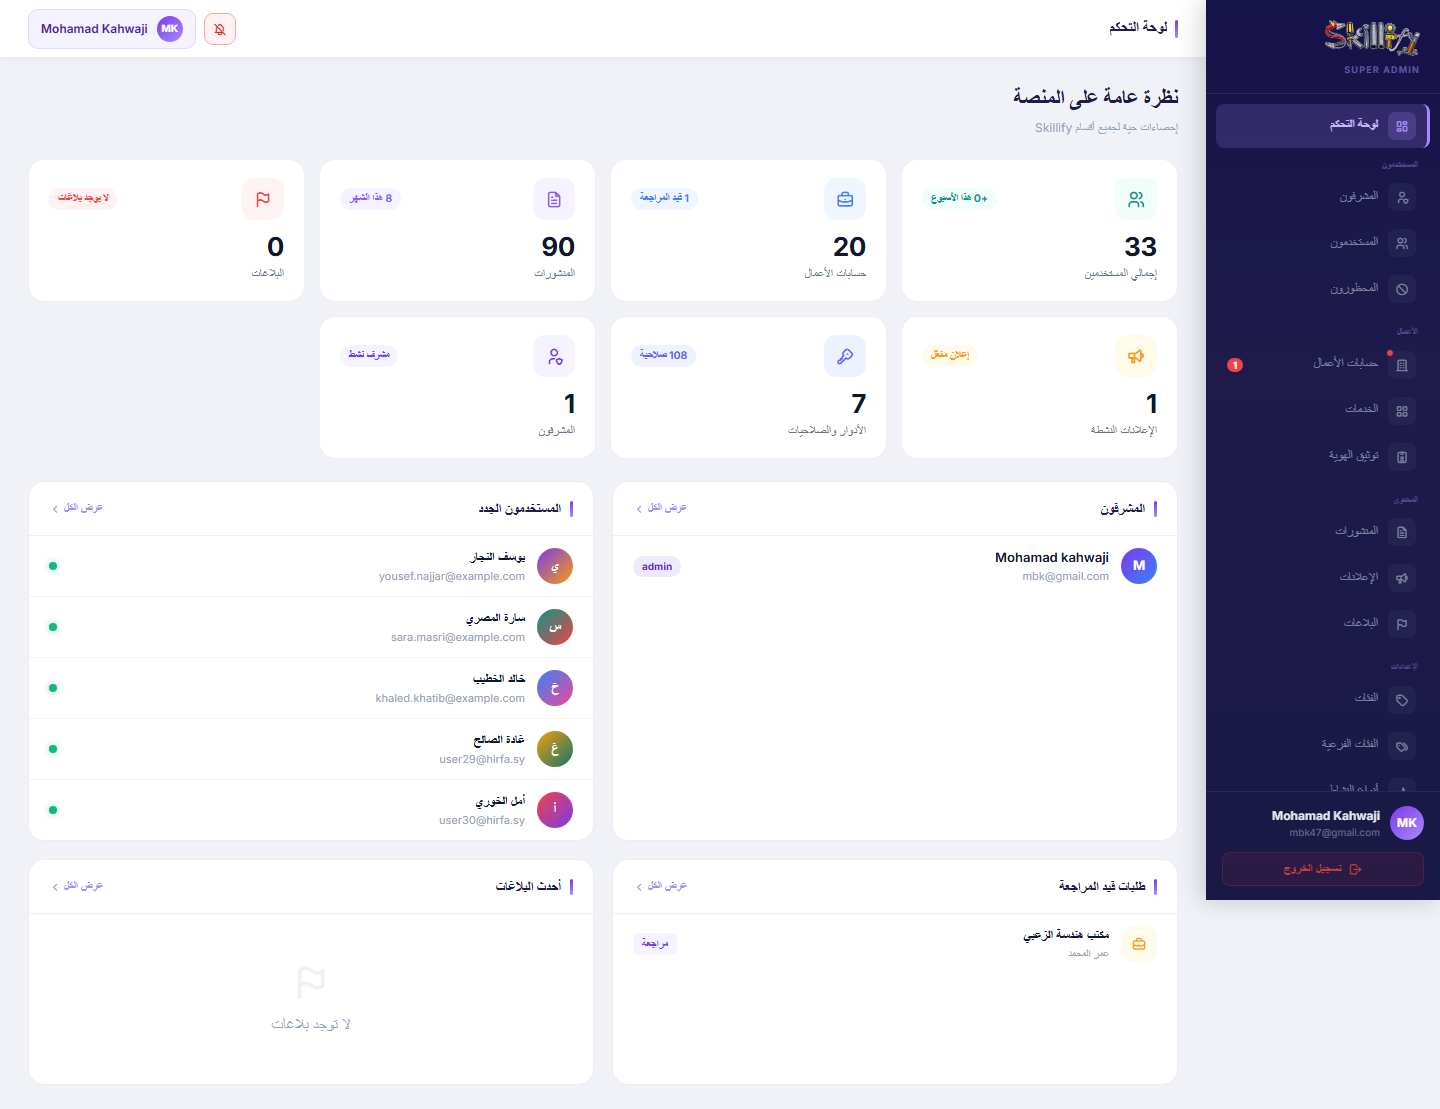
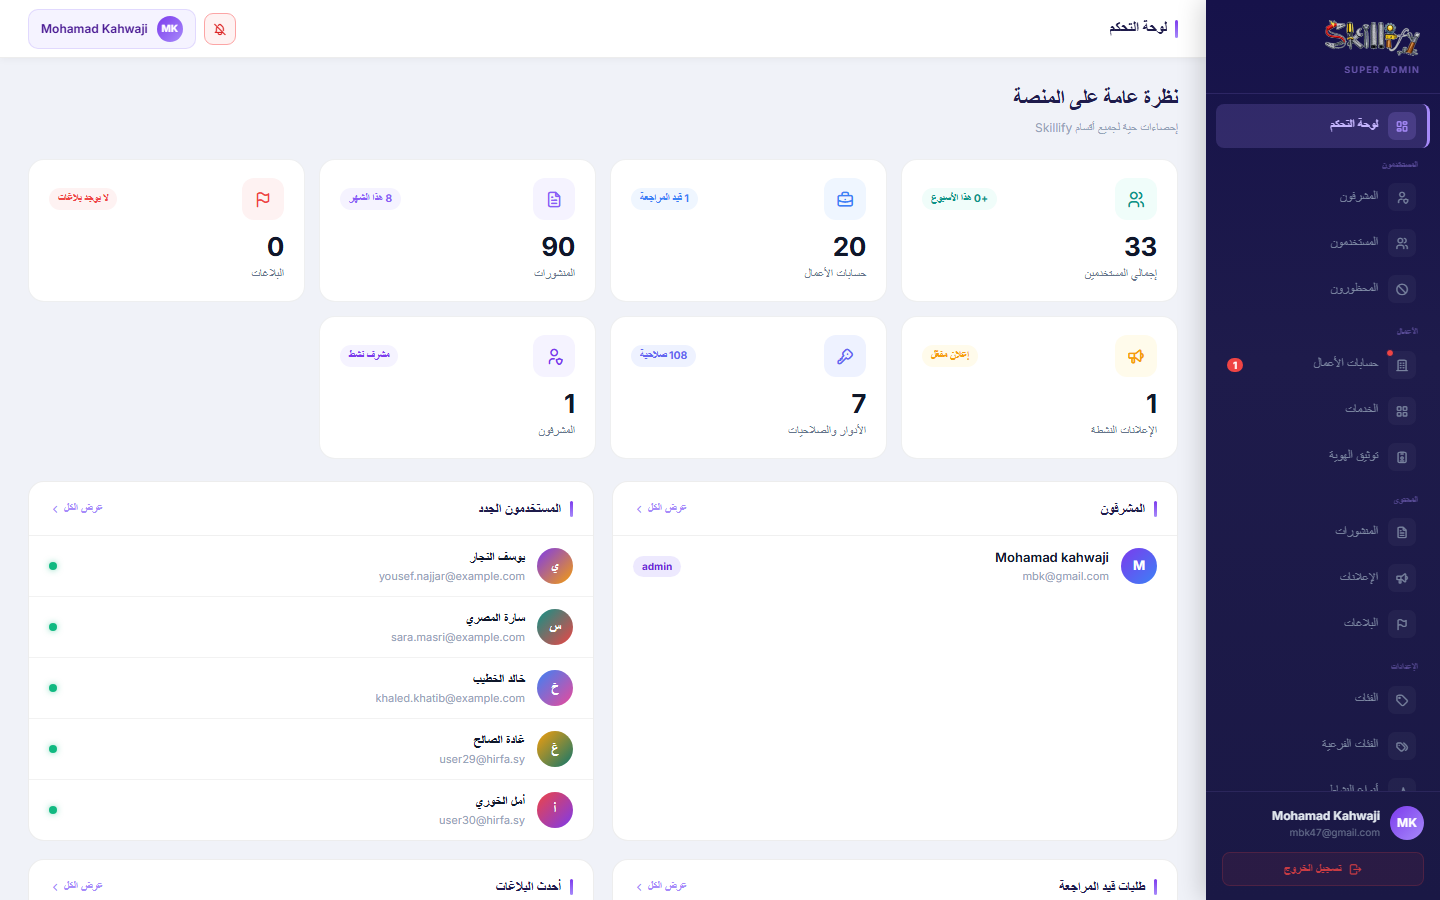
Expand screenshot gallery with more realistic, focused examples
Switch to viewport-only captures (no more full-page scrolling
screenshots of entire lists) and add register, forgot-password/OTP,
explore, admin management, roles & permissions, and identity
verification pages to better showcase the system's features.

diff --git a/README.md b/README.md
@@ -50,6 +50,10 @@ Scope note: Skillify is a web application. Its interface is rendered server-side
 <td width="50%"><img src="docs/screenshots/landing-page.png" alt="Landing page" /><p align="center"><sub>Landing page</sub></p></td>
 <td width="50%"><img src="docs/screenshots/login-page.png" alt="Login page" /><p align="center"><sub>Login page</sub></p></td>
 </tr>
+<tr>
+<td width="50%"><img src="docs/screenshots/register-page.png" alt="Register page" /><p align="center"><sub>Account registration</sub></p></td>
+<td width="50%"><img src="docs/screenshots/forgot-password-page.png" alt="Forgot password page" /><p align="center"><sub>Password recovery via WhatsApp OTP</sub></p></td>
+</tr>
 </table>
 
 ### User panel
@@ -60,8 +64,12 @@ Scope note: Skillify is a web application. Its interface is rendered server-side
 <td width="50%"><img src="docs/screenshots/user-profile.png" alt="User profile" /><p align="center"><sub>User profile</sub></p></td>
 </tr>
 <tr>
+<td width="50%"><img src="docs/screenshots/user-explore.png" alt="Explore professionals" /><p align="center"><sub>Discovering professionals near you</sub></p></td>
 <td width="50%"><img src="docs/screenshots/user-community-posts.png" alt="Community posts" /><p align="center"><sub>Community posts (with sponsored ads in feed)</sub></p></td>
+</tr>
+<tr>
 <td width="50%"><img src="docs/screenshots/user-service-details.png" alt="Service details" /><p align="center"><sub>Service details</sub></p></td>
+<td width="50%"></td>
 </tr>
 </table>
 
@@ -74,11 +82,15 @@ Scope note: Skillify is a web application. Its interface is rendered server-side
 </tr>
 <tr>
 <td width="50%"><img src="docs/screenshots/superadmin-businesses.png" alt="Super Admin businesses" /><p align="center"><sub>Business accounts</sub></p></td>
-<td width="50%"><img src="docs/screenshots/superadmin-ads.png" alt="Super Admin ads" /><p align="center"><sub>Ads management</sub></p></td>
+<td width="50%"><img src="docs/screenshots/superadmin-identity-verification.png" alt="Identity verification queue" /><p align="center"><sub>AI-assisted identity verification queue</sub></p></td>
 </tr>
 <tr>
+<td width="50%"><img src="docs/screenshots/superadmin-admins.png" alt="Admin accounts" /><p align="center"><sub>Admin account management</sub></p></td>
+<td width="50%"><img src="docs/screenshots/superadmin-permissions.png" alt="Roles and permissions" /><p align="center"><sub>Roles &amp; permissions</sub></p></td>
+</tr>
+<tr>
+<td width="50%"><img src="docs/screenshots/superadmin-ads.png" alt="Super Admin ads" /><p align="center"><sub>Ads management</sub></p></td>
 <td width="50%"><img src="docs/screenshots/superadmin-profile.png" alt="Super Admin profile" /><p align="center"><sub>Profile settings</sub></p></td>
-<td width="50%"></td>
 </tr>
 </table>
 
